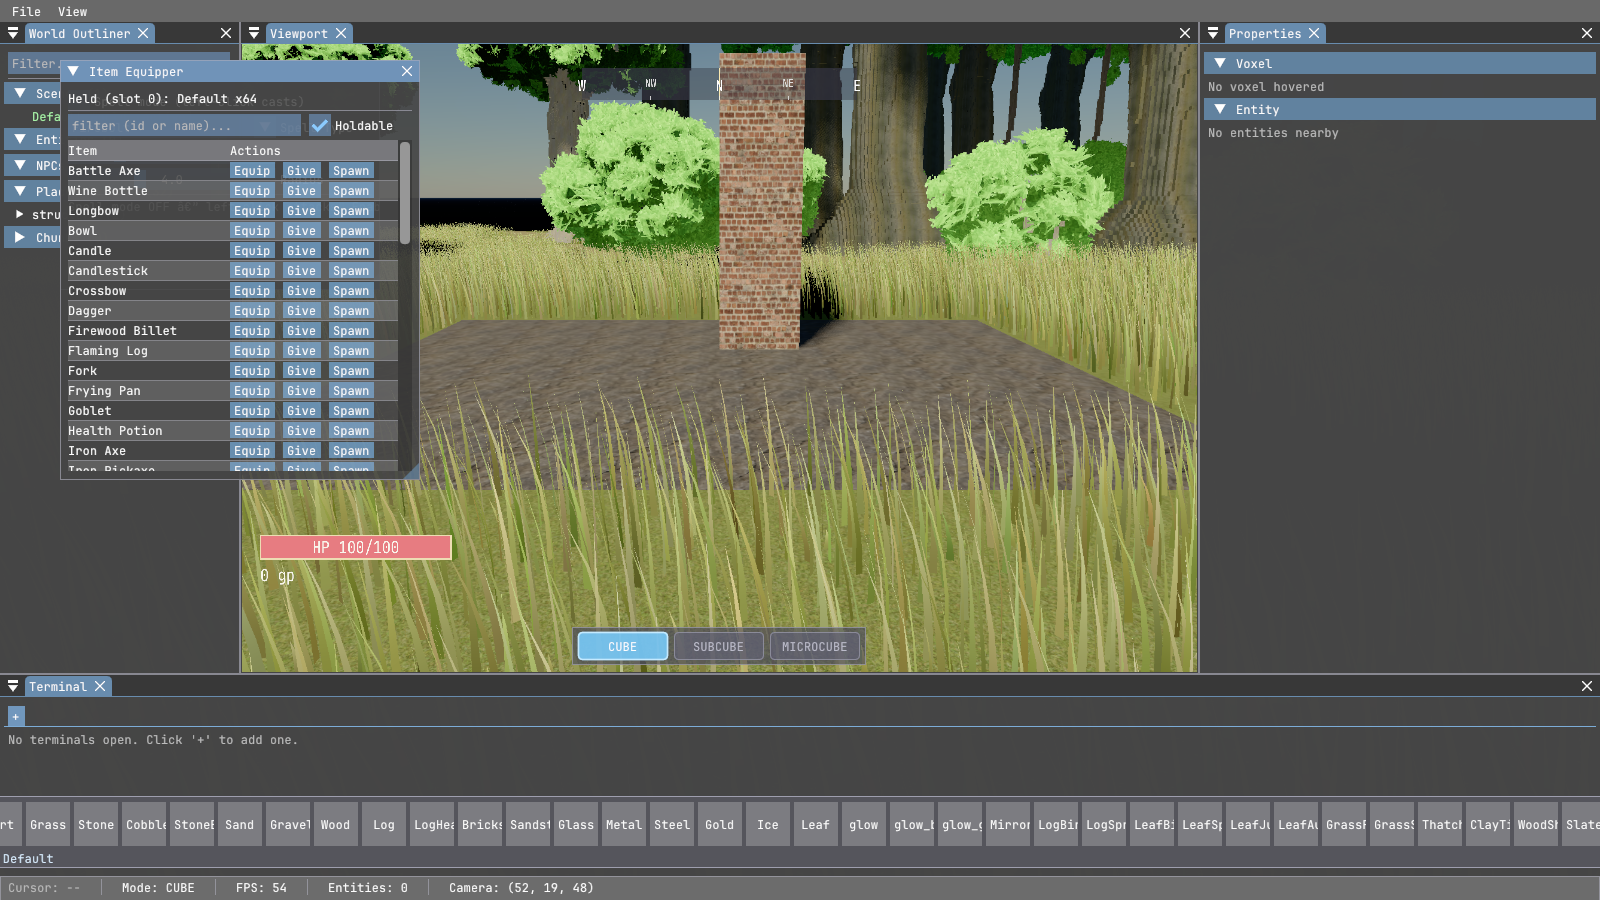
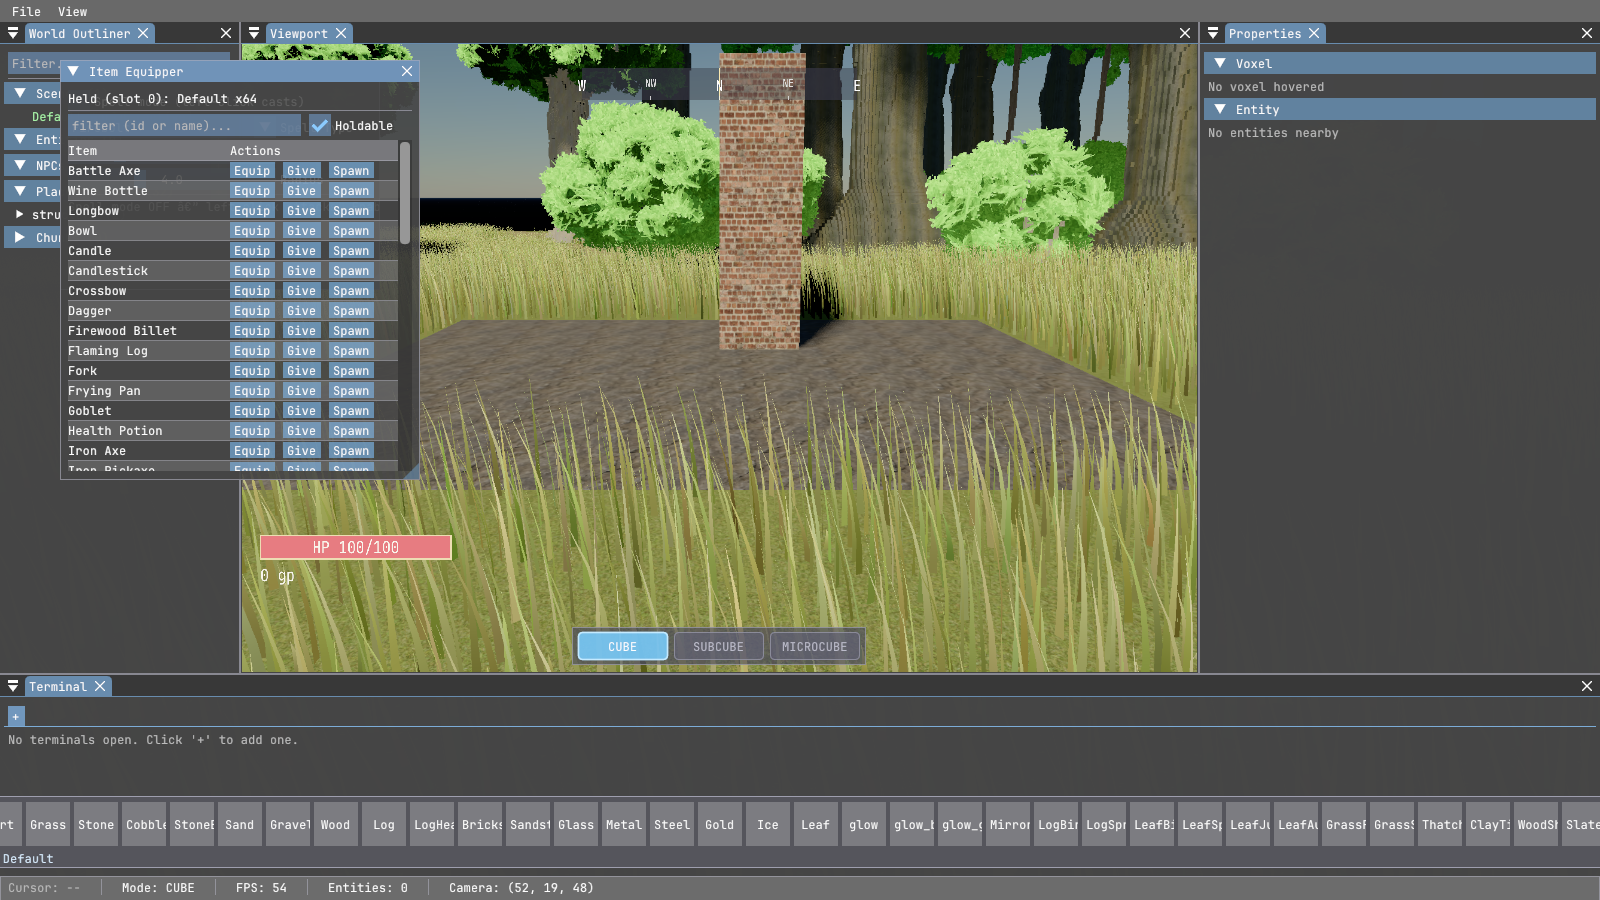
voxfound(D4 follow-up S5): glass casts no shadow
voxfound_face_shadow.vert collapses clear materials' faces; the clear bits ride the shadow push
constants (84 -> 128 B). Live: the floor behind the glass wall reads as bright as the open floor
(129.1 vs 129.2; was a shadow band), the pillar still casts.

diff --git a/engine/src/graphics/RenderCoordinator.cpp b/engine/src/graphics/RenderCoordinator.cpp
@@ -3570,10 +3570,20 @@ void RenderCoordinator::renderShadowPass(VkCommandBuffer commandBuffer, ShadowMa
             }
             vulkanDevice->bindVertexBuffers(currentFrame);
             vulkanDevice->bindIndexBuffer(currentFrame);
-            struct { glm::mat4 lightSpaceMatrix; glm::vec3 chunkBaseOffset; uint32_t useChunkDataSsbo; uint32_t drawIndexBase; } pc;
+            struct {
+                glm::mat4 lightSpaceMatrix;
+                glm::vec3 chunkBaseOffset;
+                uint32_t useChunkDataSsbo;
+                uint32_t drawIndexBase;
+                uint32_t pad[3];
+                uint32_t clear[8];   // S5: the palette's transparent materials (the face table's flag), cast no shadow
+            } pc{};
+            static_assert(sizeof(pc) == 128, "voxfound_face_shadow.vert push constants");
             pc.lightSpaceMatrix = lightSpaceMatrix;
             pc.useChunkDataSsbo = 0u;
             pc.drawIndexBase = 0u;
+            for (size_t m = 0; m < 256 && m * 6 < m_voxFoundPreview->faceTex.size(); ++m)
+                if (m_voxFoundPreview->faceTex[m * 6] & (2u << 16)) pc.clear[m >> 5] |= 1u << (m & 31);
             uint32_t cast = 0;
             const int ci = cascade == kCascadeNear ? 1 : 0;
             // F2.12 (§4.6 item 6): today's per-chunk caster test + the light frustum (reach = fitted radius + the

diff --git a/engine/src/graphics/ShadowMap.cpp b/engine/src/graphics/ShadowMap.cpp
@@ -440,7 +440,8 @@ bool ShadowMap::createPipeline() {
     pushConstantRange.offset = 0;
     // C2.1: + a uint flag selecting the origin source. 0 = push-constant origin (legacy,
     // byte-identical); 1 = read origins[gl_DrawIDARB] from the SSBO (multidraw path).
-    pushConstantRange.size = sizeof(glm::mat4) + sizeof(glm::vec3) + 2 * sizeof(uint32_t);
+    // 84 B (light matrix, chunk offset, ssbo flag, draw base) + S5's 12 B pad + 32 B clear bits (voxfound_face_shadow.vert)
+    pushConstantRange.size = 128;
 
     // Pipeline Layout
     VkPipelineLayoutCreateInfo pipelineLayoutInfo{};

diff --git a/docs/LightingPipeline.md b/docs/LightingPipeline.md
@@ -583,6 +583,7 @@ before the tone map); full moon 0.0094 > first quarter 0.0053 > new moon 0.0043.
 
 ## 9. Change log (append a line per lighting/shadow change; the fingerprint line is written by `tools/lighting_doc_check.py --update`)
 
+- 2026-11-28 — **glass casts no shadow (`docs/VoxelFoundationPlan.md` D4 follow-up S5).** No receiving shader touched. `voxfound_face_shadow.vert` collapses a clear (transparent) material’s faces; the clear bits ride the shadow push constants (range 84 -> 128 B, `clear0/clear1` at offset 96). The LOD-caster path and loose bodies still cast glass.
 - 2026-11-28 — **glass + mirrors on the switched world (`docs/VoxelFoundationPlan.md` D4 follow-ups S2 / S3).** No lighting math changes. `voxel.frag` gains one discard: fragments behind the reflection pass’s mirror plane (UBO trailing field `reflectClipPlane`, camera-relative; (0,0,0,1) = no clip, every other pass). The REFLECTION UBO now starts from the frame’s main UBO (it set only view / proj / sun / ambient, so exposure, atmosphere, cascades and GI were zero) and the reflection descriptor set copies set-0 bindings 1-13 from the main set each frame (only 0-4 were ever written): reflections were black. Voxfound face words carry the old static flag packing (bit 1 transparent + alpha byte bits 2-9, bit 10 mirror); `transparent_voxel.frag` draws the voxfound faces in the OIT pass; the new `mirror_voxel_vf.frag` is `mirror_voxel.frag` with the reflection sampler at set 2. Known: glass still casts a full shadow (the voxfound shadow pass has no face table); the reflection draws no sky, grass, leaf cards or characters’ lighting match.
 - 2026-11-22 — **the light occupancy from the voxel-foundation store when the world switch is on (`docs/VoxelFoundationPlan.md` F7.3b, section 4.4).** No shader or lighting math changes; the pool layout and every reader (probe field, light visibility, debris) unchanged. `RenderCoordinator::setVoxFoundOccupancy(source)`: while set, the residency pass packs the switched region's chunks (`VoxFound::lightOccupancyOf`, micro bits sampled at 1/9 m centres from 1/8 m voxels) with per-chunk edit revisions instead of chunkMap's; off (the default) = today's pool. Found by F7.4: with today's hidden chunks feeding the pool, the switched 1/8 m ground read ~0 ambient (view 7, curve 0: 1.14 / 255) because today's 1/9 m ground sits above it; with the new source 33.5, an edited hole 55.9. Pixels at F2.19's 5 poses vs the switch with today's occupancy: GI off 0 px; GI on 0 % at the overviews, 38.9 / 9.1 / 23.0 % at the ground poses (the probe ambient now from the drawn ground).
 - 2026-11-18 — **voxel-foundation bodies drawn with one transform (`docs/VoxelFoundationPlan.md` F5.3).** No lighting math changes. A new feeder of `voxel.frag`, `voxfound_body.vert` (loose bodies: the 8 B face record + a body index; one rotation + camera-relative translation per body; normals rotated, `shadowCoord` from the true world position), and a new caster, `voxfound_body_shadow.vert` (mid + near cascades, same layout and state as the preview casters). `voxel.frag`: one change, in the varied-tile sampling only -- a body face (flags bit 16 with the LOD bit 23 clear) takes its varied-tile coordinates from `texCoord`, which carries the REST-frame world-face coordinates, so the tile is chosen where the voxel was when it broke off and moves with the piece (the engine's other moving voxels turn varied off instead). Every other receiver path is unchanged: bit 16 is read only with bit 23 clear, and no other feeder sets it. Gate: bodies vs the same voxels through the preview at rest differ in 15 of 185,000 box px above the +-1 control floor (`docs/evidence/voxfound_f53_live.jsonl`).
